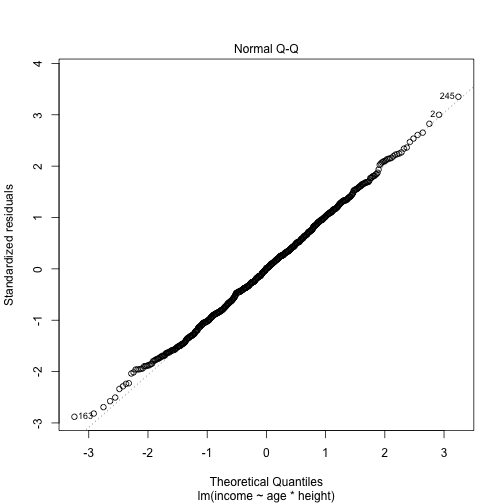
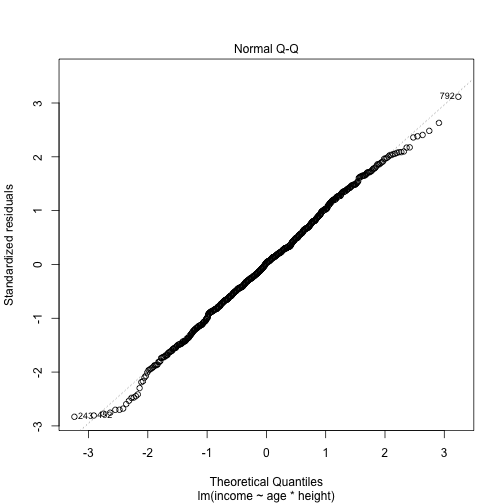
dunno

diff --git a/_sessions/StatisticsII/StatisticsII.html b/_sessions/StatisticsII/StatisticsII.html
@@ -275,7 +275,7 @@ lm(formula = income ~ age*height,
 ## 
 ## Coefficients:
 ## (Intercept)          age       height   age:height  
-##    1486.668      121.451       -3.043        0.156
+##   -1268.853      196.356       12.301       -0.265
 ```
 
 &lt;br&gt;
@@ -288,7 +288,7 @@ lm(formula = income ~ age*height,
 ## 
 ## Coefficients:
 ## (Intercept)          age       height   age:height  
-##    1486.668      121.451       -3.043        0.156
+##   -1268.853      196.356       12.301       -0.265
 ```
 
 
@@ -324,20 +324,20 @@ summary(my_lm)
 ## 
 ## Residuals:
 ##    Min     1Q Median     3Q    Max 
-##  -3548   -876     12    815   4124 
+##  -3410   -791     38    811   3737 
 ## 
 ## Coefficients:
-##             Estimate Std. Error t value Pr(&gt;|t|)    
-## (Intercept) 1486.668   1664.200    0.89  0.37194    
-## age          121.451     33.973    3.57  0.00037 ***
-## height        -3.043      9.679   -0.31  0.75331    
-## age:height     0.156      0.198    0.79  0.43173    
+##              Estimate Std. Error t value Pr(&gt;|t|)    
+## (Intercept) -1268.853   1673.777   -0.76     0.45    
+## age           196.356     34.301    5.72  1.5e-08 ***
+## height         12.301      9.752    1.26     0.21    
+## age:height     -0.265      0.200   -1.32     0.19    
 ## ---
 ## Signif. codes:  0 '***' 0.001 '**' 0.01 '*' 0.05 '.' 0.1 ' ' 1
 ## 
-## Residual standard error: 1230 on 840 degrees of freedom
-## Multiple R-squared:  0.803,	Adjusted R-squared:  0.802 
-## F-statistic: 1.14e+03 on 3 and 840 DF,  p-value: &lt;2e-16
+## Residual standard error: 1210 on 827 degrees of freedom
+## Multiple R-squared:  0.813,	Adjusted R-squared:  0.812 
+## F-statistic: 1.19e+03 on 3 and 827 DF,  p-value: &lt;2e-16
 ```
 
 ]
@@ -388,7 +388,7 @@ my_lm$coefficients
 
 ```
 ## (Intercept)         age      height  age:height 
-##   1486.6678    121.4508     -3.0430      0.1559
+##  -1268.8530    196.3558     12.3013     -0.2646
 ```
 
 ```r
@@ -398,14 +398,14 @@ my_lm$residuals
 
 ```
 ##        1        2        3        4        5 
-## -1759.81  3694.35 -1509.67 -1927.82 -1100.14 
+##   747.26  -537.87  -227.70  1433.16   471.66 
 ##        6        7        8        9       10 
-##  1261.97  -796.84   -37.32  -779.73    77.67 
+##  2040.59 -1666.15  -152.92   159.11 -1840.21 
 ##       11       12       13       14       15 
-##   641.05   886.21  -939.79 -2114.57   380.02 
+##  1184.20  2448.75   -39.81  -105.09  1093.26 
 ##       16       17       18       19       20 
-## -1269.38  3258.49  1396.75  1185.51 -2277.37 
-##  [ reached getOption("max.print") -- omitted 824 entries ]
+##  -510.67 -1325.60   122.33  1328.86  -389.81 
+##  [ reached getOption("max.print") -- omitted 811 entries ]
 ```
 
 ]
@@ -478,11 +478,11 @@ my_glm
 ## 
 ## Coefficients:
 ## (Intercept)          age       height   age:height  
-##   -2.15e+01     2.73e-02     1.28e-01    -1.99e-04  
+##   -1.82e+01    -1.25e-01     1.08e-01     7.03e-04  
 ## 
-## Degrees of Freedom: 843 Total (i.e. Null);  840 Residual
-## Null Deviance:	    1170 
-## Residual Deviance: 888 	AIC: 896
+## Degrees of Freedom: 830 Total (i.e. Null);  827 Residual
+## Null Deviance:	    1150 
+## Residual Deviance: 803 	AIC: 811
 ```
 
 ]
@@ -518,10 +518,10 @@ anova(my_an)
 ## 
 ## Response: income
 ##                   Df   Sum Sq  Mean Sq F value Pr(&gt;F)
-## education          3 1.23e+07  4095703    0.53   0.66
-## height             1 1.19e+07 11882968    1.55   0.21
-## education:height   3 2.86e+07  9534510    1.24   0.29
-## Residuals        836 6.41e+09  7672626
+## education          3 1.88e+07  6260609    0.81   0.49
+## height             1 5.61e+05   561337    0.07   0.79
+## education:height   3 3.21e+07 10703908    1.38   0.25
+## Residuals        823 6.36e+09  7732972
 ```
 
 ]
@@ -561,21 +561,21 @@ my_an
 ## 
 ## Coefficients:
 ##                       (Intercept)  
-##                           8021.35  
+##                          10414.51  
 ##        educationobligatory_school  
-##                           6027.75  
+##                          -8537.80  
 ##                   educationSEK_II  
-##                          -4686.38  
+##                          -1895.94  
 ##                  educationSEK_III  
-##                           2518.68  
+##                          -3098.55  
 ##                            height  
-##                             -3.14  
+##                            -16.07  
 ## educationobligatory_school:height  
-##                            -34.57  
+##                             47.77  
 ##            educationSEK_II:height  
-##                             30.38  
+##                              8.35  
 ##           educationSEK_III:height  
-##                            -14.42
+##                             17.77
 ```
 
 ]
@@ -619,30 +619,30 @@ summary(m)
 ## Formula: income ~ age * height + (1 | eyecor)
 ##    Data: baselers
 ## 
-## REML criterion at convergence: 14389
+## REML criterion at convergence: 14130
 ## 
 ## Scaled residuals: 
-##    Min     1Q Median     3Q    Max 
-## -2.878 -0.711  0.010  0.661  3.346 
+##     Min      1Q  Median      3Q     Max 
+## -2.8274 -0.6559  0.0319  0.6721  3.0990 
 ## 
 ## Random effects:
 ##  Groups   Name        Variance Std.Dev.
-##  eyecor   (Intercept)       0     0    
-##  Residual             1519611  1233    
-## Number of obs: 844, groups:  eyecor, 2
+##  eyecor   (Intercept) 3.20e-11 5.66e-06
+##  Residual             1.45e+06 1.21e+03
+## Number of obs: 831, groups:  eyecor, 2
 ## 
 ## Fixed effects:
-##             Estimate Std. Error t value
-## (Intercept) 1486.668   1664.200    0.89
-## age          121.451     33.973    3.57
-## height        -3.043      9.679   -0.31
-## age:height     0.156      0.198    0.79
+##              Estimate Std. Error t value
+## (Intercept) -1268.853   1673.777   -0.76
+## age           196.356     34.301    5.72
+## height         12.301      9.752    1.26
+## age:height     -0.265      0.200   -1.32
 ## 
 ## Correlation of Fixed Effects:
 ##            (Intr) age    height
-## age        -0.938              
-## height     -0.997  0.936       
-## age:height  0.933 -0.997 -0.937
+## age        -0.942              
+## height     -0.997  0.940       
+## age:height  0.939 -0.997 -0.942
 ## fit warnings:
 ## Some predictor variables are on very different scales: consider rescaling
 ```
@@ -682,9 +682,9 @@ summary(my_bm)
 ```
 ## Bayes factor analysis
 ## --------------
-## [1] age          : 8.765e+293 ±0.01%
-## [2] height       : 0.1664     ±0%
-## [3] age + height : 3.867e+292 ±0%
+## [1] age          : 5.045e+298 ±0.01%
+## [2] height       : 0.08442    ±0%
+## [3] age + height : 1.044e+297 ±0%
 ## 
 ## Against denominator:
 ##   Intercept only 
@@ -721,7 +721,7 @@ my_lm
 ## 
 ## Coefficients:
 ## (Intercept)          age       height   age:height  
-##    1486.668      121.451       -3.043        0.156
+##   -1268.853      196.356       12.301       -0.265
 ```
 
 
@@ -734,12 +734,12 @@ tidy(my_lm)
 
 ```
 ## # A tibble: 4 x 5
-##   term         estimate std.error statistic  p.value
-##   &lt;chr&gt;           &lt;dbl&gt;     &lt;dbl&gt;     &lt;dbl&gt;    &lt;dbl&gt;
-## 1 (Intercept)  1487.     1664.        0.893 0.372   
-## 2 age           121.       34.0       3.57  0.000370
-## 3 height         -3.04      9.68     -0.314 0.753   
-## 4 age:height      0.156     0.198     0.787 0.432
+##   term        estimate std.error statistic     p.value
+##   &lt;chr&gt;          &lt;dbl&gt;     &lt;dbl&gt;     &lt;dbl&gt;       &lt;dbl&gt;
+## 1 (Intercep… -1269.     1674.       -0.758     4.49e-1
+## 2 age          196.       34.3       5.72      1.45e-8
+## 3 height        12.3       9.75      1.26      2.08e-1
+## 4 age:height    -0.265     0.200    -1.32      1.86e-1
 ```
 
 ]

diff --git a/_sessions/PlottingII/PlottingII.html b/_sessions/PlottingII/PlottingII.html
@@ -54,8 +54,8 @@ layout: true
 # Customizing plots
 
 .pull-left45[
-
-&lt;font style="font-size:26px"&gt;
+&lt;br2&gt;
+&lt;font style="font-size:24px"&gt;
 &lt;b&gt;1&lt;/b&gt; &lt;high&gt;Store&lt;/high&gt; and customize plot as a &lt;high&gt;&lt;mono&gt;gg&lt;/mono&gt; object&lt;/high&gt;.
 &lt;br&gt;&lt;br&gt;
 &lt;b&gt;2&lt;/b&gt; Create multiple plots using &lt;high&gt;facetting&lt;/high&gt;.
@@ -219,38 +219,7 @@ ggplot(data = mpg,
 
 Faceting = &lt;high&gt;same plot for different groups&lt;/high&gt;.
 
-Use `facet_grid()` to &lt;high&gt;control&lt;/high&gt; how the plots are facetted.
-
-
-```r
-# With faceting
-ggplot(data = mpg, 
-       mapping = aes(x = displ, 
-                     y = hwy)) + 
-  geom_point() + theme_bw() +
-  facet_grid(rows = 2) 
-```
-
-
-]
-
-.pull-right45[
-
-&lt;img src="PlottingII_files/figure-html/unnamed-chunk-12-1.png" style="display: block; margin: auto;" /&gt;
-
-]
-
-
-
----
-
-# `facet_grid()`
-
-.pull-left4[
-
-Faceting = &lt;high&gt;same plot for different groups&lt;/high&gt;.
-
-Use `facet_grid()` to &lt;high&gt;control&lt;/high&gt; how the plots are facetted.
+Use `facet_grid()` to create plots of one (set of) variable against those another.
 
 
 ```r
@@ -267,11 +236,9 @@ ggplot(data = mpg,
 
 .pull-right45[
 
-&lt;img src="PlottingII_files/figure-html/unnamed-chunk-14-1.png" style="display: block; margin: auto;" /&gt;
+&lt;img src="PlottingII_files/figure-html/unnamed-chunk-12-1.png" style="display: block; margin: auto;" /&gt;
 
 ]
-
-
 
 
 ---

diff --git a/_sessions/StatisticsI/StatisticsI.html b/_sessions/StatisticsI/StatisticsI.html
@@ -460,7 +460,7 @@ baselers %&gt;%
 |:-----|:-------| 
 | `lm()`, `glm()`| (Generalized) linear models  |
 | `lmer()`, `glmer()` | (Generalized) mixed-linear models |
-| `stan_glm()` | Bayesian (generalized) linear models |
+| `regressionBF()` | Bayesian (generalized) linear models |
 
 
 ]
@@ -816,7 +816,7 @@ if (window.HTMLWidgets) slideshow.on('afterShowSlide', function (slide) {
 (function () {
   var script = document.createElement('script');
   script.type = 'text/javascript';
-  script.src  = 'https://mathjax.rstudio.com/latest/MathJax.js?config=TeX-MML-AM_CHTML';
+  script.src  = 'https://cdn.bootcss.com/mathjax/2.7.1/MathJax.js?config=TeX-MML-AM_CHTML';
   if (location.protocol !== 'file:' && /^https?:/.test(script.src))
     script.src  = script.src.replace(/^https?:/, '');
   document.getElementsByTagName('head')[0].appendChild(script);
